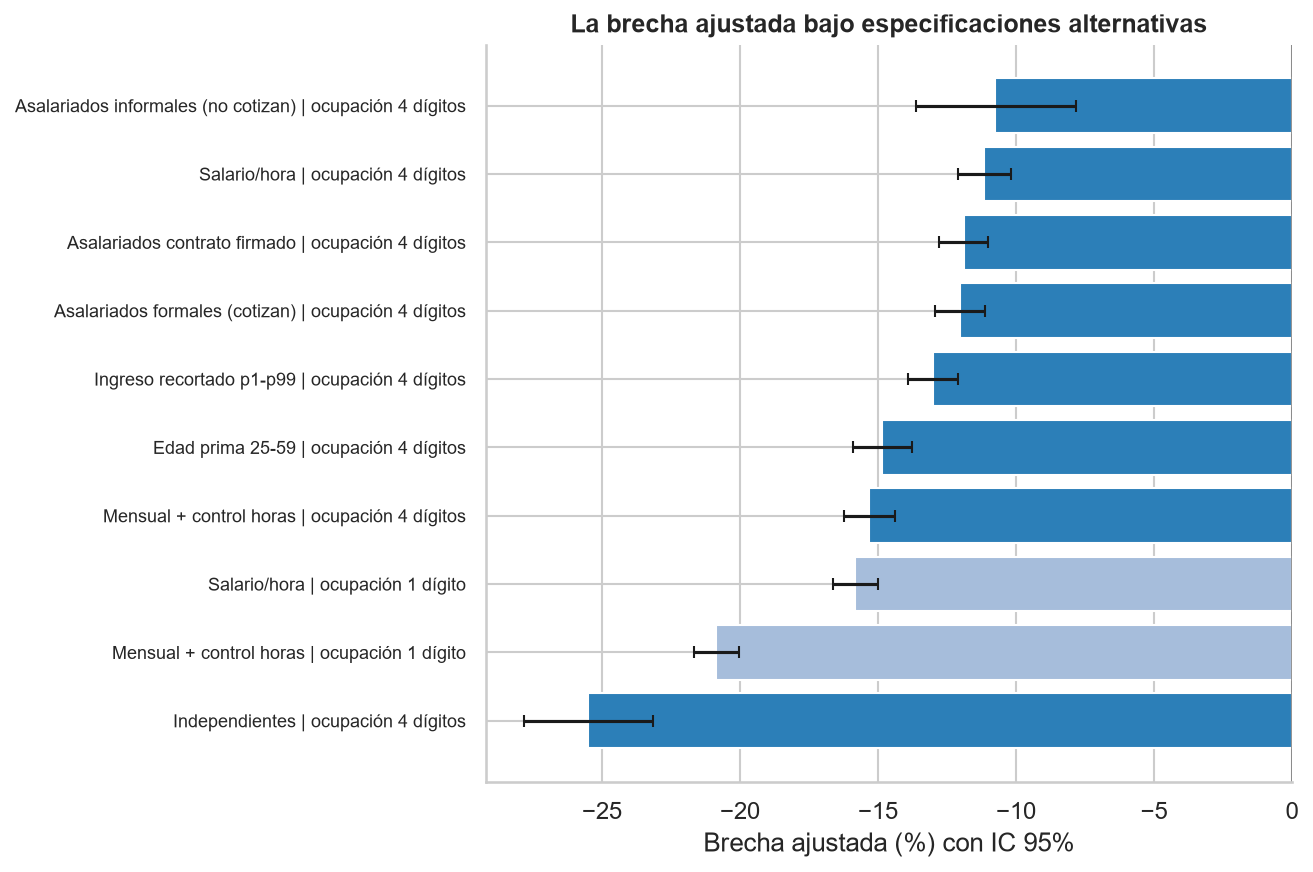
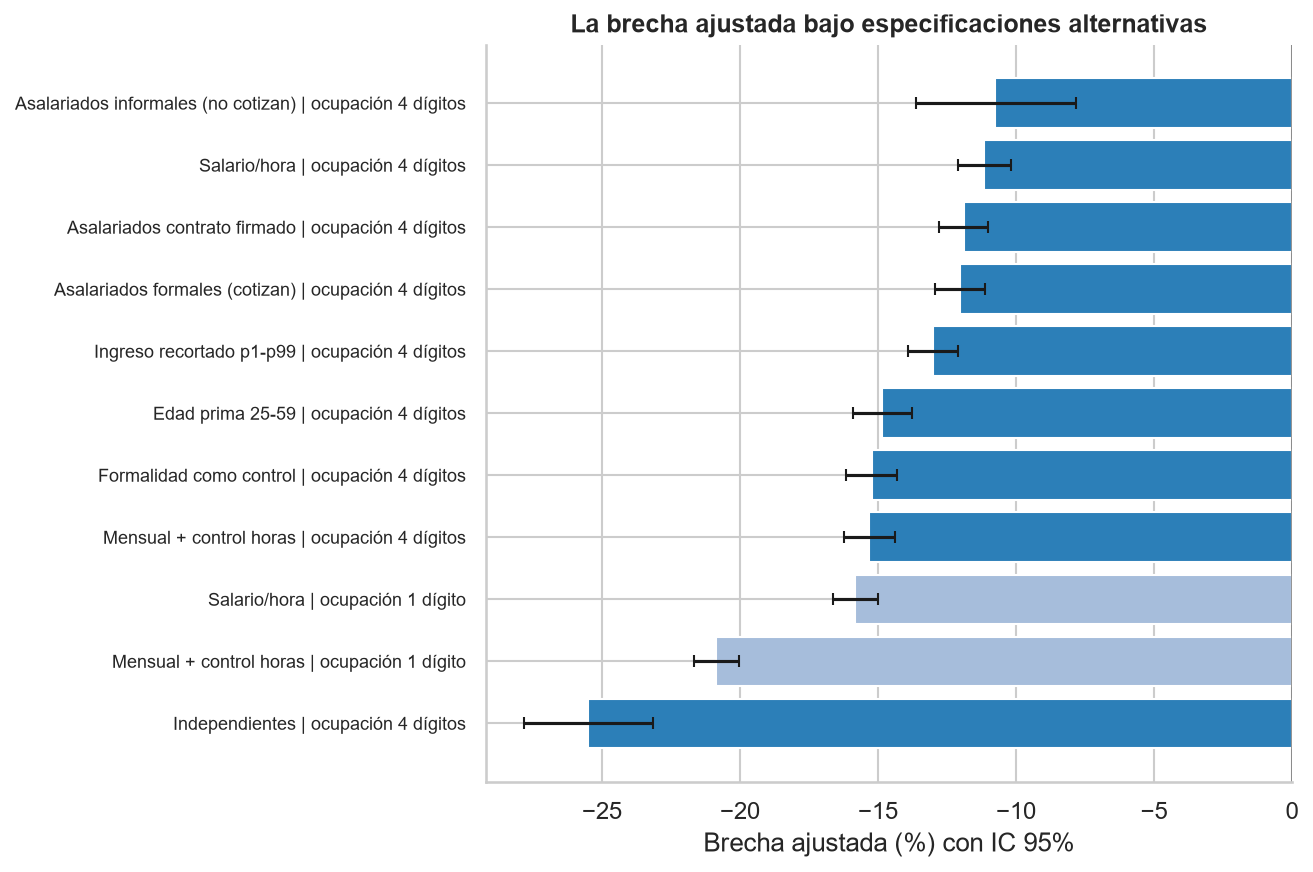
Add formality as a control variable: gap barely moves (-15.3% to -15.2%)
Notebook 09 section 4 extended: beyond splitting the sample by formality
regime, formality now also enters the full model as a control (occupational
category o15 grouped + pension contribution o32). The sex coefficient is
essentially unchanged (-15.2%) even though formality strongly predicts
income levels (contributing: +29.9%; self-employed: -19.2%; R2 0.537->0.562).
In the Oaxaca-Blinder decomposition the formality family contributes -1.7%
(slightly against the gap, like education): women are marginally more
salaried and less self-employed. Formality matters for income levels but
explains none of the gender gap. Policy paper and README updated.

diff --git a/policy_paper/README.md b/policy_paper/README.md
@@ -225,13 +225,14 @@ Los resultados centrales fueron sometidos a la batería de robustez que un proce
 | Ingreso recortado (percentiles 1-99) | -13.0% | 171.481 |
 | Solo asalariados formales (cotizan previsión) | **-12.0%** | 110.098 |
 | Solo asalariados con contrato escrito firmado | -11.9% | 110.721 |
+| Formalidad como control (categoría ocupacional + cotización) | -15.2% | 174.924 |
 | Salario por hora (en vez de mensual + control de horas) | **-11.1%** | 174.924 |
 | Solo trabajadores independientes (cuenta propia y empleadores) | **-25.5%** | 44.697 |
 
 Cinco conclusiones de robustez:
 
 1. **La brecha ajustada nunca se acerca a cero**: el rango completo (excluyendo el caso extremo de independientes) va de -11% a -15%.
-2. **¿Formal con formal?** La comparación restringida a asalariados formales —el mismo universo que cubren los datos administrativos del Seguro de Cesantía— arroja -12.0%. Y la composición por formalidad casi no difiere por sexo en la muestra de ocupados con ingreso (asalariados: 74.6% de los hombres vs 77.7% de las mujeres; cotización: 73.3% vs 72.5%): la brecha no es un artefacto de mezclar universos. El hallazgo nuevo es de heterogeneidad — **la brecha más severa está entre independientes (-25.5%)**, el segmento sin contrato ni fiscalización posible, lo que acota el alcance de los instrumentos regulatorios clásicos (R1) y refuerza el rol de los instrumentos de cuidado (R2-R4), que operan sobre todos los regímenes de empleo.
+2. **¿Formal con formal?** La comparación restringida a asalariados formales —el mismo universo que cubren los datos administrativos del Seguro de Cesantía— arroja -12.0%. Y la composición por formalidad casi no difiere por sexo en la muestra de ocupados con ingreso (asalariados: 74.6% de los hombres vs 77.7% de las mujeres; cotización: 73.3% vs 72.5%): la brecha no es un artefacto de mezclar universos. Incluida como **control** en la muestra completa (categoría ocupacional + cotización), la formalidad apenas mueve el coeficiente de sexo (-15.3% → -15.2%), pese a ser un fuerte predictor del nivel de ingreso (cotizar se asocia a +30%; cuenta propia, a -19%); en la descomposición, su aporte compositivo es levemente negativo (-1.7%), como el de la educación. El hallazgo nuevo es de heterogeneidad — **la brecha más severa está entre independientes (-25.5%)**, el segmento sin contrato ni fiscalización posible, lo que acota el alcance de los instrumentos regulatorios clásicos (R1) y refuerza el rol de los instrumentos de cuidado (R2-R4), que operan sobre todos los regímenes de empleo.
 3. **El *index number problem* de Oaxaca-Blinder no altera el diagnóstico**: bajo referencia masculina, femenina o pooled (Neumark, 1988), el ranking de factores es idéntico (horas primero, ocupación granular segundo, educación en contra); el componente no explicado varía entre 49% y 71% pero nunca baja de aproximadamente la mitad de la brecha.
 4. **El patrón unidireccional por ocupación sobrevive al cambio de especificación**: en salario por hora, 41 ocupaciones sobreviven FDR (40 en contra de mujeres) y 16 sobreviven Bonferroni (todas en contra). La única excepción pro-mujer bajo FDR (conductoras de taxis, +13.1% por hora) refleja la dilución horaria de los conductores hombres, que trabajan jornadas extremas — bajo Bonferroni ninguna ocupación favorece a las mujeres en ninguna especificación.
 5. En salario por hora la brecha es menor que en ingreso mensual (-11.1% vs -15.3%): parte de la brecha mensual refleja directamente la menor cantidad de horas remuneradas de las mujeres — coherente con el peso de las horas en la descomposición y con el diagnóstico de Goldin (2014).

diff --git a/README.md b/README.md
@@ -150,7 +150,7 @@ La evidencia sólida —la que resiste el control estadístico— apunta consist
 **El notebook 09 somete todo lo anterior a una batería de robustez** (salario por hora, tres vectores de referencia en Oaxaca-Blinder, edad prima, recorte de outliers, y separación formal/informal/independiente):
 
 - La brecha ajustada **nunca baja de -11%** bajo ninguna especificación: -15.3% baseline, -14.9% edad prima, -13.0% sin outliers, -12.0% solo asalariados formales que cotizan, -11.1% en salario por hora
-- **¿Formal con formal?** La composición por formalidad casi no difiere por sexo (asalariados: 74.6% hombres vs 77.7% mujeres) — la brecha no es un artefacto de mezclar universos. Pero sí es heterogénea: **entre independientes se dispara a -25.5%**, el segmento sin contrato ni fiscalización posible
+- **¿Formal con formal?** La composición por formalidad casi no difiere por sexo (asalariados: 74.6% hombres vs 77.7% mujeres) — la brecha no es un artefacto de mezclar universos. Como control en la muestra completa, la formalidad apenas mueve el coeficiente (-15.3% → -15.2%) pese a predecir fuerte el nivel de ingreso (cotizar: +30%). Pero la brecha sí es heterogénea: **entre independientes se dispara a -25.5%**, el segmento sin contrato ni fiscalización posible
 - El ranking de factores de Oaxaca-Blinder (horas primero, ocupación segundo, educación en contra) es idéntico bajo las tres referencias; el "no explicado" varía de 49% a 71% según la convención, nunca por debajo de aproximadamente la mitad
 - En salario por hora, bajo Bonferroni ninguna ocupación favorece significativamente a las mujeres (la única excepción bajo FDR — conductoras de taxis, +13.1%/hora — refleja las jornadas extremas de los conductores hombres, que diluyen su salario por hora)
 